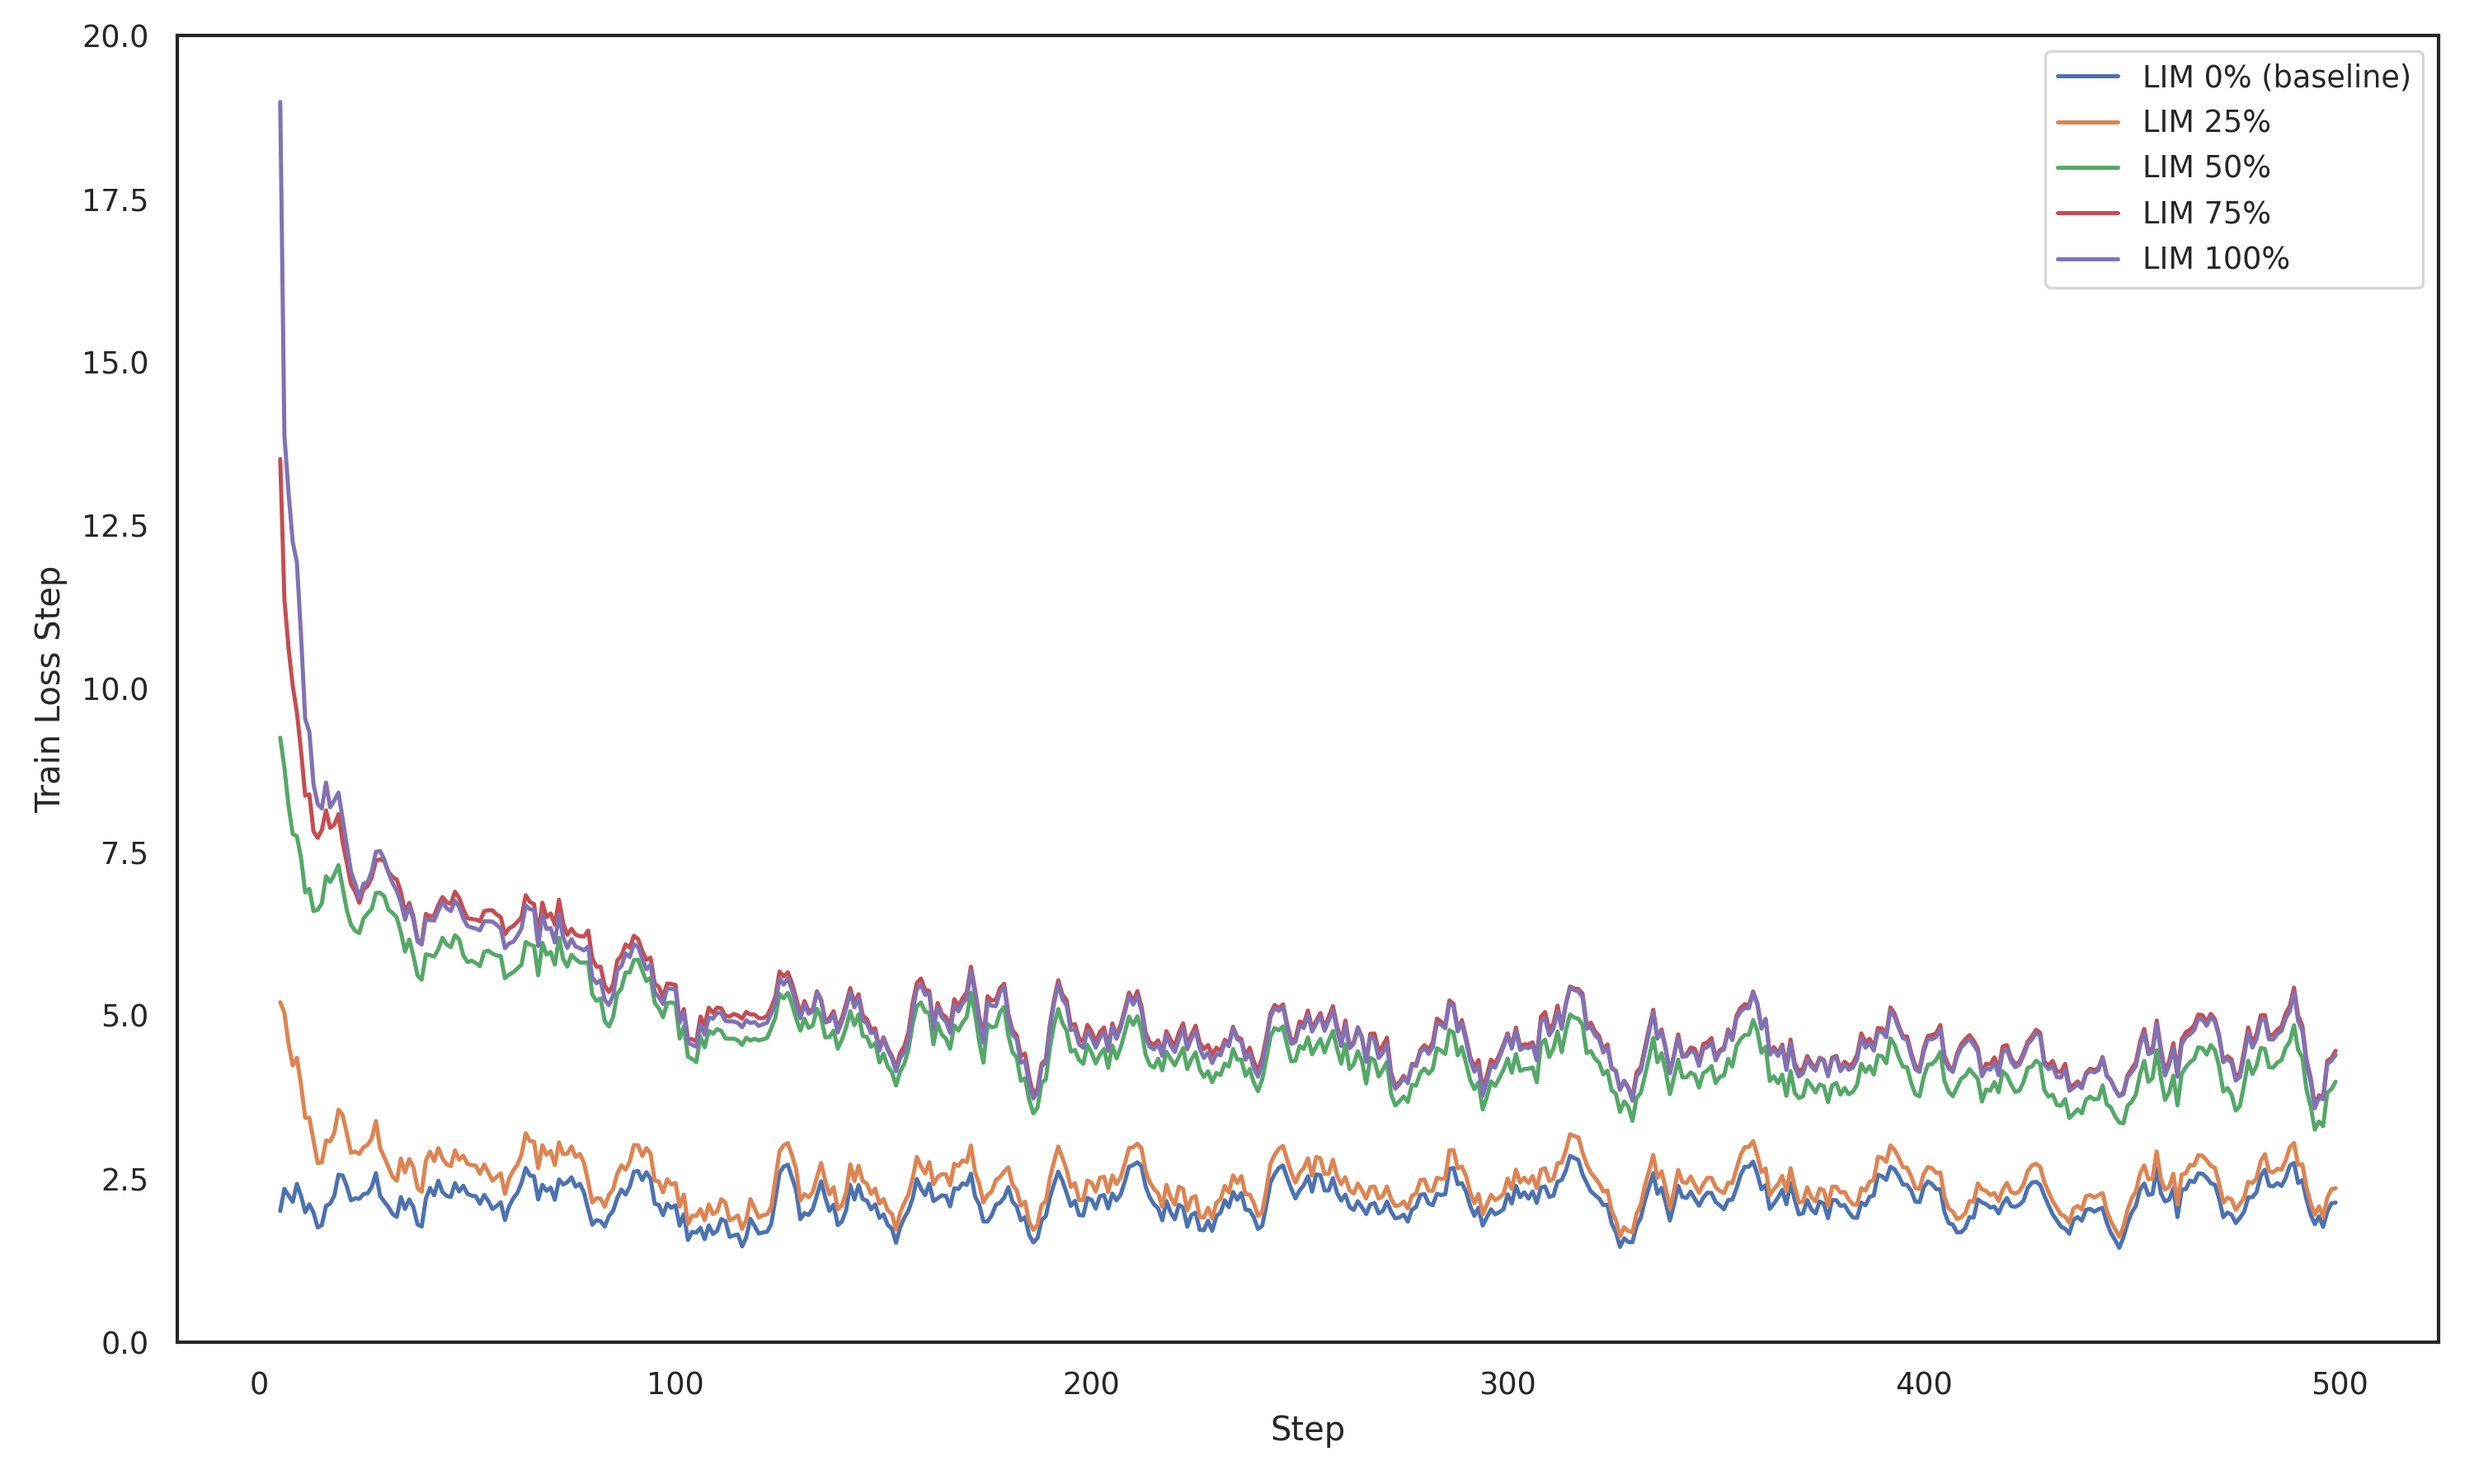
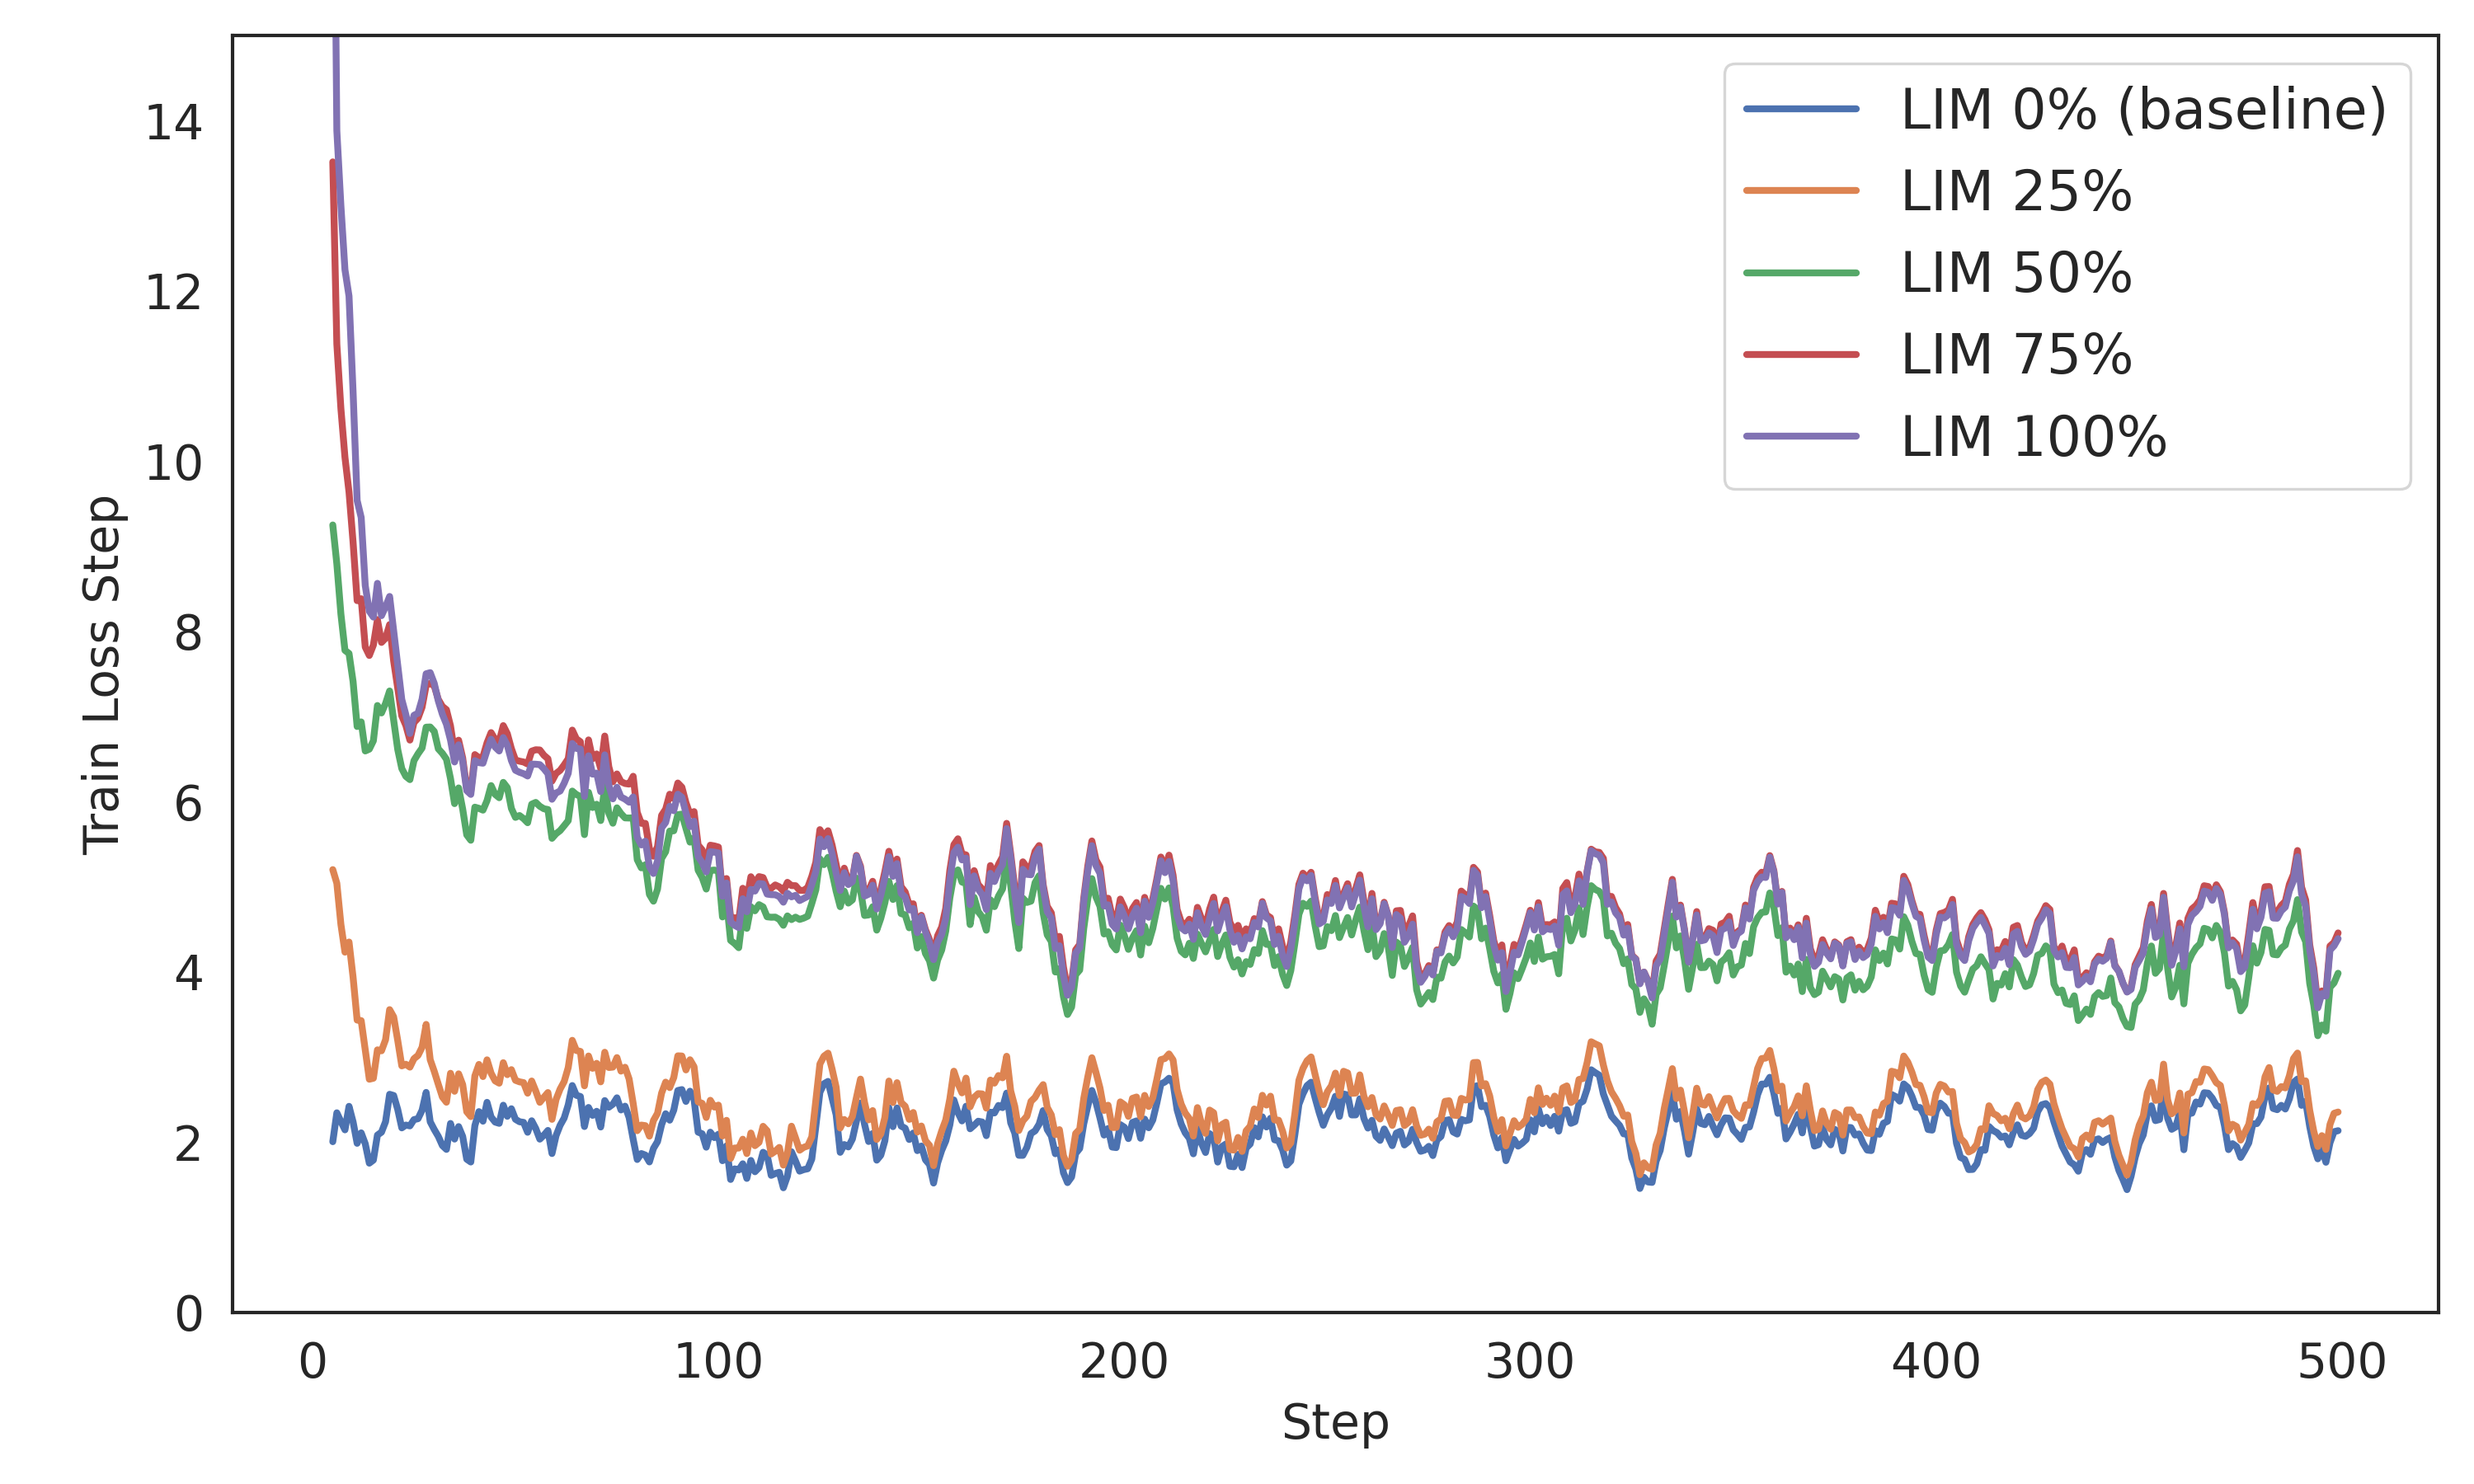
Update plots

diff --git a/src/plots.py b/src/plots.py
@@ -43,16 +43,19 @@ def plot_metric(
     combined_df = pl.concat(dfs).to_pandas()
 
     ax = fig.gca()
-    sns.lineplot(data=combined_df, x="step", y=metric_name, hue="run_name", ax=ax)
+    sns.lineplot(data=combined_df, x="step", y=metric_name, hue="run_name", ax=ax, linewidth=2)
 
     # Replace legend labels with pretty names
     handles, labels = ax.get_legend_handles_labels()
     run_names = [run.info.run_name for run in runs]
     label_map = dict(zip(run_names, pretty_run_names))
     new_labels = [label_map.get(label, label) for label in labels]
-    ax.legend(handles=handles, labels=new_labels, title="")
 
-    ax.set(xlabel="Step", ylabel=metric_name.replace("_", " ").title())
+    ax.legend(handles=handles, labels=new_labels, title="", fontsize=16)
+    ax.set_xlabel("Step", fontsize=14)
+    ax.set_ylabel(metric_name.replace("_", " ").title(), fontsize=14)
+    ax.tick_params(axis="both", which="major", labelsize=14)
+
     fig.tight_layout()
 
 
@@ -87,7 +90,7 @@ def render_ZD_comparision():
     fig = get_plot(
         run_names, "train_loss_step", pretty_run_names=pretty_names, rolling_mean=5
     )
-    fig.gca().set_ylim(0.0, 20.0)
+    fig.gca().set_ylim(0.0, 15.0)
     fig.savefig(f"{SAVE_DIR}/ZD_least_important.png", dpi=300)
 
     return fig
@@ -107,7 +110,7 @@ def render_LIM_most_comparision():
     fig = get_plot(
         run_names, "train_loss_step", pretty_run_names=pretty_names, rolling_mean=5
     )
-    fig.gca().set_ylim(0.0, 20.0)
+    fig.gca().set_ylim(0.0, 15.0)
     fig.savefig(f"{SAVE_DIR}/LIM_most_important.png", dpi=300)
 
     return fig
@@ -134,5 +137,5 @@ def render_lr(layer: str):
 
 
 if __name__ == "__main__":
-    fig = render_lr("OneBit")
+    fig = render_ZD_comparision()
     fig.show()

diff --git a/src/hf_model/register_and_test.py b/src/hf_model/register_and_test.py
@@ -9,7 +9,7 @@ from transformers import (CONFIG_MAPPING, AutoConfig, AutoModel,
                           AutoModelForCausalLM)
 
 from src.hf_model.hf_class import BitConfig42, HFQuantizedSmolModel
-from src.constants import ORG_NAME, HF_MODEL_NAME, BENCHMARK_OUTPUT_FILE
+from src.constants import ORG_NAME, HF_MODEL_NAME, BENCHMARK_OUTPUT_FILE, HARNESS_TASK
 
 # Model registration and evaluation
 
@@ -31,7 +31,7 @@ if __name__ == "__main__":
     results = evaluator.simple_evaluate(
         model="hf",
         model_args=f"pretrained={ORG_NAME}/{HF_MODEL_NAME}",
-        tasks=["hellaswag"],
+        tasks=[HARNESS_TASK],
         device="cuda:0",
         batch_size=4,
         task_manager=task_manager,

diff --git a/src/constants.py b/src/constants.py
@@ -28,7 +28,8 @@ HF_TOKEN = config("HF_TOKEN", default=None)
 HF_MODEL_CKPT = "./mlruns/770830031765675480/ed074b3860e9461e862fda19c0b4a880/checkpoints/epoch=2-step=17999.ckpt"
 HF_CONVERTED_OUT_DIR = "./data/hf_converted"
 HF_QUANTIZATION = "1_58b"
-HF_BITLINEAR_IMPL = "OneBit"
-HF_LOSS_FUNCTION = "KL"
+HF_BITLINEAR_IMPL = "FBI"
+HF_LOSS_FUNCTION = "CrossEntropy"
 HF_MODEL_NAME = f"quant_{HF_QUANTIZATION}_impl_{HF_BITLINEAR_IMPL}_loss_{HF_LOSS_FUNCTION}"
-BENCHMARK_OUTPUT_FILE = f"./data/benchmarks/{HF_MODEL_NAME}.pkl"
+HARNESS_TASK = "mathqa"
+BENCHMARK_OUTPUT_FILE = f"./data/benchmarks/{HF_MODEL_NAME}_{HARNESS_TASK}.pkl"

diff --git a/src/hf_model/hf_class.py b/src/hf_model/hf_class.py
@@ -50,6 +50,11 @@ class HFQuantizedSmolModel(PreTrainedModel):
         return self.model(
             input_ids=input_ids, attention_mask=attention_mask, **kwargs
         )
+    
+    def generate(self, input_ids, attention_mask=None, **kwargs):
+        return self.model.generate(
+            input_ids=input_ids, attention_mask=attention_mask, **kwargs
+        )
 
 if __name__ == "__main__":
     shutil.rmtree(HF_CONVERTED_OUT_DIR, ignore_errors=True)
